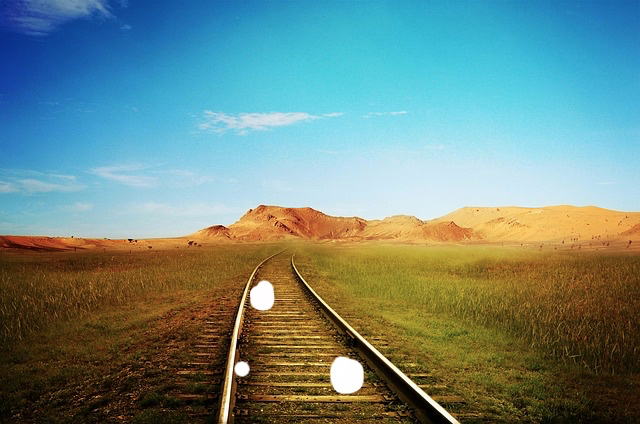
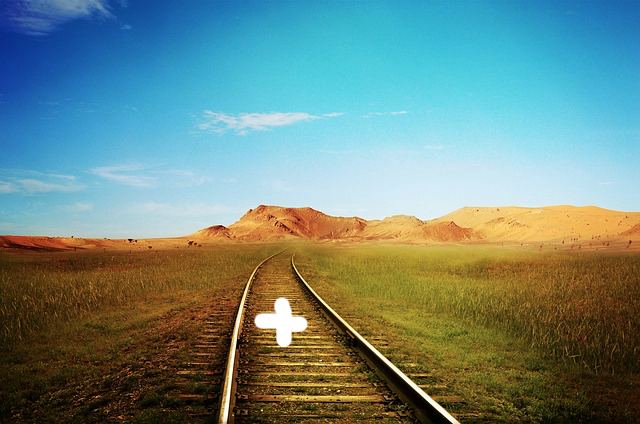
adds an additional test frame

Changed region(s): [[0.375, 0.6439, 0.5, 0.8278], [0.5, 0.8278, 0.5938, 0.9505], [0.3438, 0.8585, 0.4062, 0.8892]]

diff --git a/tracker/Launcher.py b/tracker/Launcher.py
@@ -10,6 +10,7 @@ p2 = Point(427, 416)
 frames = [
     'resources/train-way-step0.png',
     'resources/train-way-step1.png',
-    'resources/train-way-step2.png'
+    'resources/train-way-step2.png',
+    'resources/train-way-step3.png'
 ]
 launcher = Window(frames, p1, p2)
